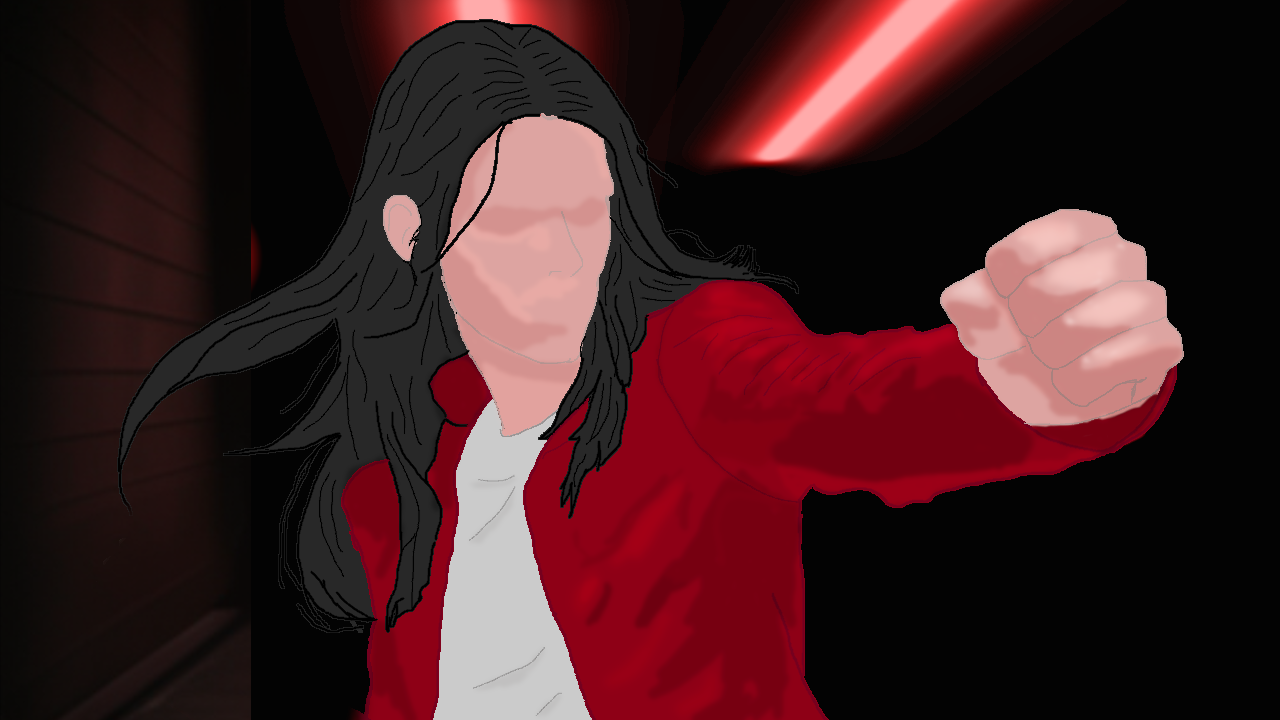
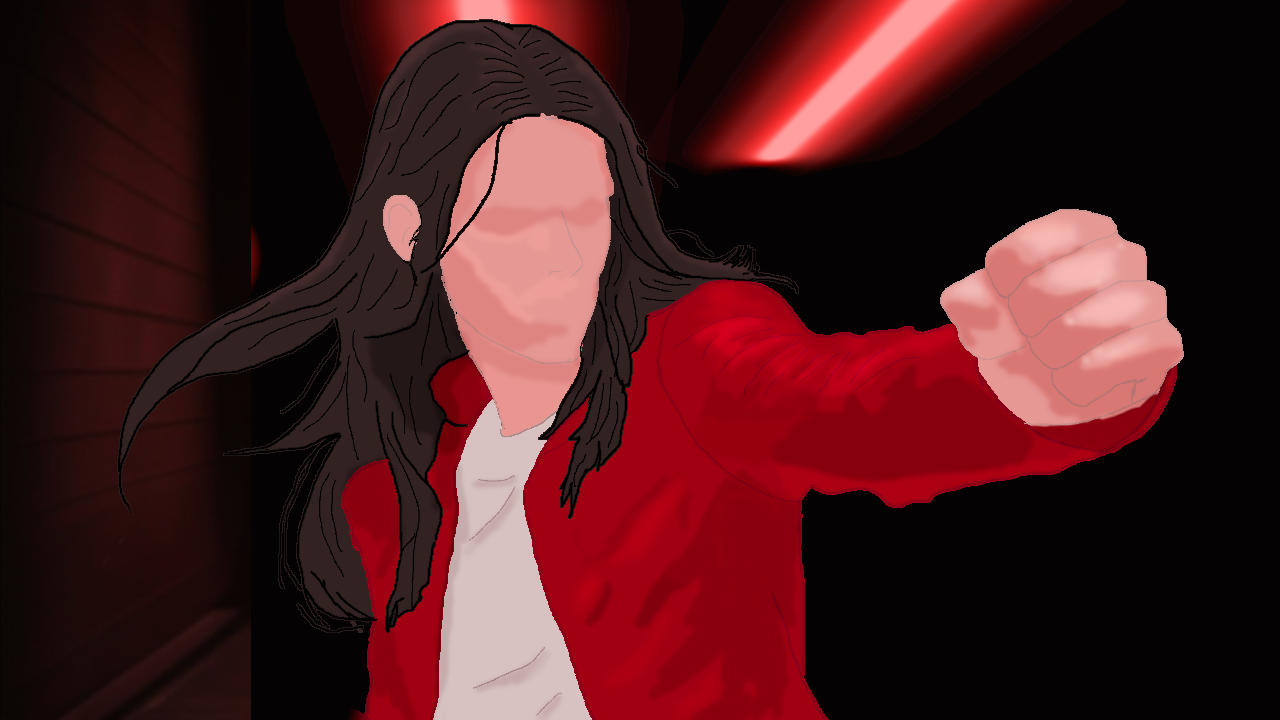
added backgrounds fro levels

diff --git a/SFML Template 3.0.01(working)1/SFML Template 3.0.01(working)1/level.cpp b/SFML Template 3.0.01(working)1/SFML Template 3.0.01(working)1/level.cpp
@@ -5,36 +5,113 @@ static int levelTemplate[Level::Height][Level::Width] =
     { 0,0,0,0,0,0,0,0,1,0,0,0,0,0,0,0,0,0,0,0,0,0,0,0,0,0,0,0,0,0,0,0,0,0,0,0,0,0,0,0,0,0,0,0,0,0,0,0,0,0 },
     { 0,0,0,0,0,0,0,0,1,0,0,0,0,0,0,0,0,0,0,0,0,0,0,0,0,0,0,0,0,0,0,0,0,0,0,0,0,0,0,0,0,0,0,0,0,0,0,0,0,0 },
     { 0,0,0,0,0,0,0,0,1,0,0,0,0,0,0,0,0,0,0,0,0,0,0,0,0,0,0,0,0,0,0,0,0,0,0,0,0,0,0,0,0,0,0,0,0,0,0,0,0,0 },
-    { 1,1,1,1,1,0,0,0,1,0,0,0,0,0,0,0,0,0,0,0,1,1,1,1,1,1,0,0,0,0,0,0,0,0,0,0,0,0,0,0,0,0,0,0,0,0,0,0,0,0 },
-    { 0,0,0,0,0,0,0,0,1,0,0,0,0,0,0,0,0,0,0,0,0,0,0,0,0,0,0,0,0,0,0,0,0,0,0,0,0,0,0,0,0,0,0,0,0,0,0,0,0,0 },
-    { 0,0,0,0,0,0,0,0,1,0,0,0,0,0,0,0,0,0,0,0,0,0,0,0,0,0,0,0,0,0,0,0,0,0,0,0,0,0,0,0,0,0,0,0,0,0,0,0,0,0 },
-    { 1,1,1,1,1,1,0,0,1,0,0,0,0,0,0,0,0,0,0,0,0,0,0,0,0,0,0,0,0,0,0,0,0,0,0,0,0,0,0,0,0,0,0,0,0,0,0,0,0,0 },
-    { 0,0,0,0,0,0,0,0,1,0,0,0,0,1,0,0,0,0,0,0,0,0,0,0,0,0,0,0,0,0,0,0,0,0,0,0,0,0,0,0,0,0,0,0,0,0,0,0,0,0 },
+    { 0,0,0,0,0,0,0,0,0,0,0,0,0,0,0,0,0,0,0,0,1,1,1,1,1,1,0,0,0,0,0,0,0,0,0,0,0,0,0,0,0,0,0,0,0,0,0,0,0,0 },
+    { 0,0,0,0,0,0,0,0,1,1,1,1,1,1,1,1,1,0,0,0,0,0,0,0,0,0,0,0,0,0,0,0,0,0,0,0,0,0,0,0,0,0,0,0,0,0,0,0,0,0 },
+    { 0,0,0,0,0,0,0,0,0,0,0,0,0,0,0,0,1,0,0,0,0,0,0,0,0,0,0,0,0,0,0,0,0,0,0,0,0,0,0,0,0,0,0,0,0,0,0,0,0,0 },
+    { 1,1,1,1,1,1,1,1,1,1,1,1,1,1,1,1,1,1,1,1,0,0,0,0,0,0,0,0,0,0,0,0,0,0,0,0,0,0,0,0,0,0,0,0,0,0,0,0,0,0 },
+    { 0,0,0,0,0,0,0,0,0,0,0,0,0,1,0,0,0,0,0,0,0,0,0,0,0,0,0,0,0,0,0,0,0,0,0,0,0,0,0,0,0,0,0,0,0,0,0,0,0,0 },
     { 0,0,0,0,0,0,0,0,1,0,0,0,0,1,0,1,1,1,1,0,0,0,0,0,0,0,0,0,0,0,0,0,0,0,0,0,0,0,0,0,0,0,0,0,0,0,0,0,0,0 },
     { 0,0,0,0,0,0,0,0,1,0,0,0,0,1,0,1,0,0,0,0,0,0,0,0,0,0,0,0,0,0,0,0,0,0,0,0,0,0,0,0,0,0,0,0,0,0,0,0,0,0 },
     { 0,0,0,0,0,0,0,0,1,0,0,0,0,1,0,1,0,0,0,0,0,0,0,0,0,0,0,0,0,0,0,0,0,0,0,0,0,0,0,0,0,0,0,0,0,0,0,0,0,0 },
     { 0,0,0,0,0,0,0,0,0,0,0,0,0,1,0,1,0,0,0,0,0,0,0,0,0,0,0,0,0,0,0,0,0,0,0,0,0,0,0,0,0,0,0,0,0,0,0,0,0,0 },
-    { 0,0,0,0,0,0,0,0,0,0,1,1,1,0,0,1,0,0,0,0,0,0,0,0,0,0,0,0,0,0,0,0,0,0,0,0,0,0,0,0,0,0,0,0,0,0,0,0,0,0 },
+    { 0,0,0,0,0,0,0,0,0,0,1,1,1,1,0,1,0,0,0,0,0,0,0,0,0,0,0,0,0,0,0,0,0,0,0,0,0,0,0,0,0,0,0,0,0,0,0,0,0,0 },
     { 0,0,0,0,0,0,1,1,1,0,0,0,0,0,0,1,0,0,0,0,0,0,0,0,0,0,0,0,0,0,0,0,0,0,0,0,0,0,0,0,0,0,0,0,0,0,0,0,0,0 },
     { 0,0,1,1,0,0,0,0,0,0,0,0,0,0,0,0,0,0,0,0,0,0,0,0,0,0,0,0,0,0,0,0,0,0,0,0,0,0,0,0,0,0,0,0,0,0,0,0,0,0 },
     { 1,1,1,1,1,1,1,1,1,1,1,1,1,1,1,1,1,1,1,1,1,1,1,1,1,1,1,1,1,1,1,1,1,1,1,1,1,1,1,1,1,1,1,1,1,1,1,1,1,1 }
 };
 
-void Level::load(sf::Texture& platformTexture)
+static int BackgroundTemplate[Level::Height][Level::Width] =
 {
+    { 0,0,0,0,0,0,0,0,0,0,0,0,0,0,0,0,0,0,0,0,0,0,0,0,0,0,0,0,0,0,0,0,0,0,0,0,0,0,0,0,0,0,0,0,0,0,0,0,0,0 },
+    { 0,0,0,0,0,0,0,0,0,0,0,0,0,0,0,0,0,0,0,0,0,0,0,0,0,0,0,0,0,0,0,0,0,0,0,0,0,0,0,0,0,0,0,0,0,0,0,0,0,0 },
+    { 0,0,0,0,0,0,0,0,0,0,0,0,0,0,0,0,0,0,0,0,1,1,1,1,1,1,0,0,0,0,0,0,0,0,0,0,0,0,0,0,0,0,0,0,0,0,0,0,0,0 },
+    { 0,0,0,0,0,0,0,0,3,1,1,2,1,1,1,2,0,0,0,0,0,0,0,0,0,0,0,0,0,0,0,0,0,0,0,0,0,0,0,0,0,0,0,0,0,0,0,0,0,0 },
+    { 0,0,0,0,0,0,0,0,0,0,0,0,0,0,0,0,0,0,0,0,0,0,0,0,0,0,0,0,0,0,0,0,0,0,0,0,0,0,0,0,0,0,0,0,0,0,0,0,0,0 },
+    { 1,1,2,1,1,2,1,1,4,4,5,4,4,5,4,4,0,0,0,0,0,0,0,0,0,0,0,0,0,0,0,0,0,0,0,0,0,0,0,0,0,0,0,0,0,0,0,0,0,0 },
+    { 0,0,0,0,0,0,0,0,0,0,0,0,0,0,0,0,0,0,0,0,0,0,0,0,0,0,0,0,0,0,0,0,0,0,0,0,0,0,0,0,0,0,0,0,0,0,0,0,0,0 },
+    { 0,0,0,0,0,0,0,0,0,0,0,0,0,1,1,1,1,1,0,0,0,0,0,0,0,0,0,0,0,0,0,0,0,0,0,0,0,0,0,0,0,0,0,0,0,0,0,0,0,0 },
+    { 0,0,0,0,0,0,0,0,0,0,0,0,0,0,0,0,0,0,0,0,0,0,0,0,0,0,0,0,0,0,0,0,0,0,0,0,0,0,0,0,0,0,0,0,0,0,0,0,0,0 },
+    { 0,0,0,0,0,0,0,0,0,0,0,0,0,0,0,0,0,0,0,0,0,0,0,0,0,0,0,0,0,0,0,0,0,0,0,0,0,0,0,0,0,0,0,0,0,0,0,0,0,0 },
+    { 0,0,0,0,0,0,0,0,0,0,0,0,0,0,0,0,0,0,0,0,0,0,0,0,0,0,0,0,0,0,0,0,0,0,0,0,0,0,0,0,0,0,0,0,0,0,0,0,0,0 },
+    { 0,0,0,0,0,0,0,0,0,0,1,1,1,0,0,0,0,0,0,0,0,0,0,0,0,0,0,0,0,0,0,0,0,0,0,0,0,0,0,0,0,0,0,0,0,0,0,0,0,0 },
+    { 0,0,0,0,0,0,1,1,1,0,0,0,0,0,0,0,0,0,0,0,0,0,0,0,0,0,0,0,0,0,0,0,0,0,0,0,0,0,0,0,0,0,0,0,0,0,0,0,0,0 },
+    { 0,0,1,1,0,0,0,0,0,0,0,0,0,0,0,0,0,0,0,0,0,0,0,0,0,0,0,0,0,0,0,0,0,0,0,0,0,0,0,0,0,0,0,0,0,0,0,0,0,0 },
+    { 1,1,1,1,1,1,1,1,1,1,1,1,1,1,1,1,1,1,1,1,1,1,1,1,1,1,1,1,1,1,1,1,1,1,1,1,1,1,1,1,1,1,1,1,1,1,1,1,1,1 },
+    { 0,0,0,0,0,0,0,0,0,0,0,0,0,0,0,0,0,0,0,0,0,0,0,0,0,0,0,0,0,0,0,0,0,0,0,0,0,0,0,0,0,0,0,0,0,0,0,0,0,0 }
+};
+
+void Level::setupTextures()
+{
+    platformTex.loadFromFile("ASSETS\\IMAGES\\Platform.png");
+    railingTex.loadFromFile("ASSETS\\IMAGES\\Rail.png");
+    lampPost.loadFromFile("ASSETS\\IMAGES\\lampPost.png");
+    railLampPost.loadFromFile("ASSETS\\IMAGES\\railLampPost.png");
+    hallway.loadFromFile("ASSETS\\IMAGES\\hallway.png");
+    hallway2.loadFromFile("ASSETS\\IMAGES\\hallway2.png");
+
+    load();
+}
+
+void Level::load()
+{
+    //background
     for (int y = 0; y < Height; y++)
     {
         for (int x = 0; x < Width; x++)
         {
-            m_levelData[y][x] = levelTemplate[y][x];
+            backgroundData[y][x] = BackgroundTemplate[y][x];
 
-            if (m_levelData[y][x] == 1)
+            if (backgroundData[y][x] == 1)
+            {
+                sf::Sprite sprite(railingTex);
+                sprite.setPosition(sf::Vector2f{static_cast<float>(x * TileWidth), static_cast<float>(y * TileHeight) });
+                backgroundSprites[y][x] = std::move(sprite);
+            }
+            else if (backgroundData[y][x] == 2)
+            {
+                sf::Sprite sprite(railLampPost);
+                sprite.setPosition(sf::Vector2f{ static_cast<float>(x * TileWidth), static_cast<float>(y * TileHeight) });
+                backgroundSprites[y][x] = std::move(sprite);
+            }
+            else if (backgroundData[y][x] == 3)
+            {
+                sf::Sprite sprite(lampPost);
+                sprite.setPosition(sf::Vector2f{ static_cast<float>(x * TileWidth), static_cast<float>(y * TileHeight) });
+                backgroundSprites[y][x] = std::move(sprite);
+            }
+            else if (backgroundData[y][x] == 4)
+            {
+                sf::Sprite sprite(hallway);
+                sprite.setPosition(sf::Vector2f{ static_cast<float>(x * TileWidth), static_cast<float>(y * TileHeight) });
+                backgroundSprites[y][x] = std::move(sprite);
+            }
+            else if (backgroundData[y][x] == 5)
+            {
+                sf::Sprite sprite(hallway2);
+                sprite.setPosition(sf::Vector2f{ static_cast<float>(x * TileWidth), static_cast<float>(y * TileHeight) });
+                backgroundSprites[y][x] = std::move(sprite);
+            }
+            else
+            {
+                backgroundSprites[y][x].reset();
+            }
+        }
+    }
+
+    //playable area
+    for (int y = 0; y < Height; y++)
+    {
+        for (int x = 0; x < Width; x++)
+        {
+            levelData[y][x] = levelTemplate[y][x];
+
+            if (levelData[y][x] == 1)
             {
                 sf::Vector2f pos(x * TileWidth, y * TileHeight);
 
                 sf::Vector2f size(TileWidth, TileHeight);
 
-                m_tiles[y][x].setup(platformTexture, pos, size);
+                tiles[y][x].setup(platformTex, pos, size);
             }
         }
     }
@@ -46,9 +123,20 @@ void Level::render(sf::RenderWindow& window, bool debug)
     {
         for (int x = 0; x < Width; x++)
         {
-            if (m_levelData[y][x] == 1)
+            if (backgroundSprites[y][x])
             {
-                m_tiles[y][x].Render(window, debug);
+                window.draw(*backgroundSprites[y][x]);
+            }
+        }
+    }
+
+    for (int y = 0; y < Height; y++)
+    {
+        for (int x = 0; x < Width; x++)
+        {
+            if (levelData[y][x] == 1)
+            {
+                tiles[y][x].Render(window, debug);
             }
         }
     }
@@ -71,9 +159,9 @@ void Level::checkCollisions(Player& player)
         {
             if (x < 0 || x >= Width) continue;
 
-            if (m_levelData[y][x] == 1)
+            if (levelData[y][x] == 1)
             {
-                handleCollision(player, m_tiles[y][x]);
+                handleCollision(player, tiles[y][x]);
             }
         }
     }

diff --git a/SFML Template 3.0.01(working)1/SFML Template 3.0.01(working)1/level.h b/SFML Template 3.0.01(working)1/SFML Template 3.0.01(working)1/level.h
@@ -9,15 +9,28 @@ public:
     static const int Width = 50;
     static const int Height = 20;
 
-    static const int TileWidth = 256;
+    static const int TileWidth = 512;
     static const int TileHeight = 255;
 
-    void load(sf::Texture& platformTexture);
+    void setupTextures();
+    void load();
     void render(sf::RenderWindow& window, bool debug);
     void checkCollisions(Player& player);
     void handleCollision(Player& player, Platform& platform);
 
 private:
-    Platform m_tiles[Height][Width];
-    int m_levelData[Height][Width];
+    Platform tiles[Height][Width];
+    int levelData[Height][Width];
+
+    std::optional<sf::Sprite> backgroundSprites[Height][Width];
+    int backgroundData[Height][Width];
+
+    sf::Texture platformTex;
+
+    //background details
+    sf::Texture railingTex;
+    sf::Texture hallway;
+    sf::Texture hallway2;
+    sf::Texture lampPost;
+    sf::Texture railLampPost;
 };

diff --git a/SFML Template 3.0.01(working)1/SFML Template 3.0.01(working)1/Game.cpp b/SFML Template 3.0.01(working)1/SFML Template 3.0.01(working)1/Game.cpp
@@ -175,11 +175,7 @@ void Game::render()
 		{
 			m_window.setView(debugView);
 		}
-
-
 		m_window.draw(background);
-		m_window.draw(railing);
-
 		level.render(m_window, seeDebug);
 
 		player.Render(m_window, seeDebug);
@@ -246,22 +242,7 @@ void Game::setupSprites()
 	background.setOrigin(sf::Vector2f{ 640, 853 });
 	background.setScale(sf::Vector2f{1.5,1.5});
 
-	if (!platformTex.loadFromFile(("ASSETS\\IMAGES\\Platform.png")))
-	{
-		std::cout << "platform not loaded" << std::endl;
-	}
-
-	level.load(platformTex);
-
-
-	if (!railingTex.loadFromFile(("ASSETS\\IMAGES\\Rail.png")))
-	{
-		std::cout << "railing not loaded" << std::endl;
-	}
-	railing.setTexture(railingTex, true);
-	railing.setPosition(sf::Vector2f{ 0, 460 });
-	railing.setScale(sf::Vector2f{ 1, 0.6f });
-
+	level.setupTextures();
 	camera.setSize({ 1280.f, 720.f });
 	debugView.setSize({ 12800, 7200 });
 

diff --git a/SFML Template 3.0.01(working)1/SFML Template 3.0.01(working)1/Game.h b/SFML Template 3.0.01(working)1/SFML Template 3.0.01(working)1/Game.h
@@ -60,7 +60,6 @@ private:
 	bool m_DELETEexitGame; // control exiting game
 
 	Player player;
-	sf::Texture platformTex;
 	Level level;
 
 	GameState gameState = GameState::MENU;
@@ -71,9 +70,6 @@ private:
 	sf::Sprite title{ titleTex };
 	sf::Texture titleOptionsTex;
 	sf::Sprite titleOptions{ titleOptionsTex };
-
-	sf::Texture railingTex;
-	sf::Sprite railing{ railingTex };
 	sf::View camera;
 
 	bool seeDebug = false;
